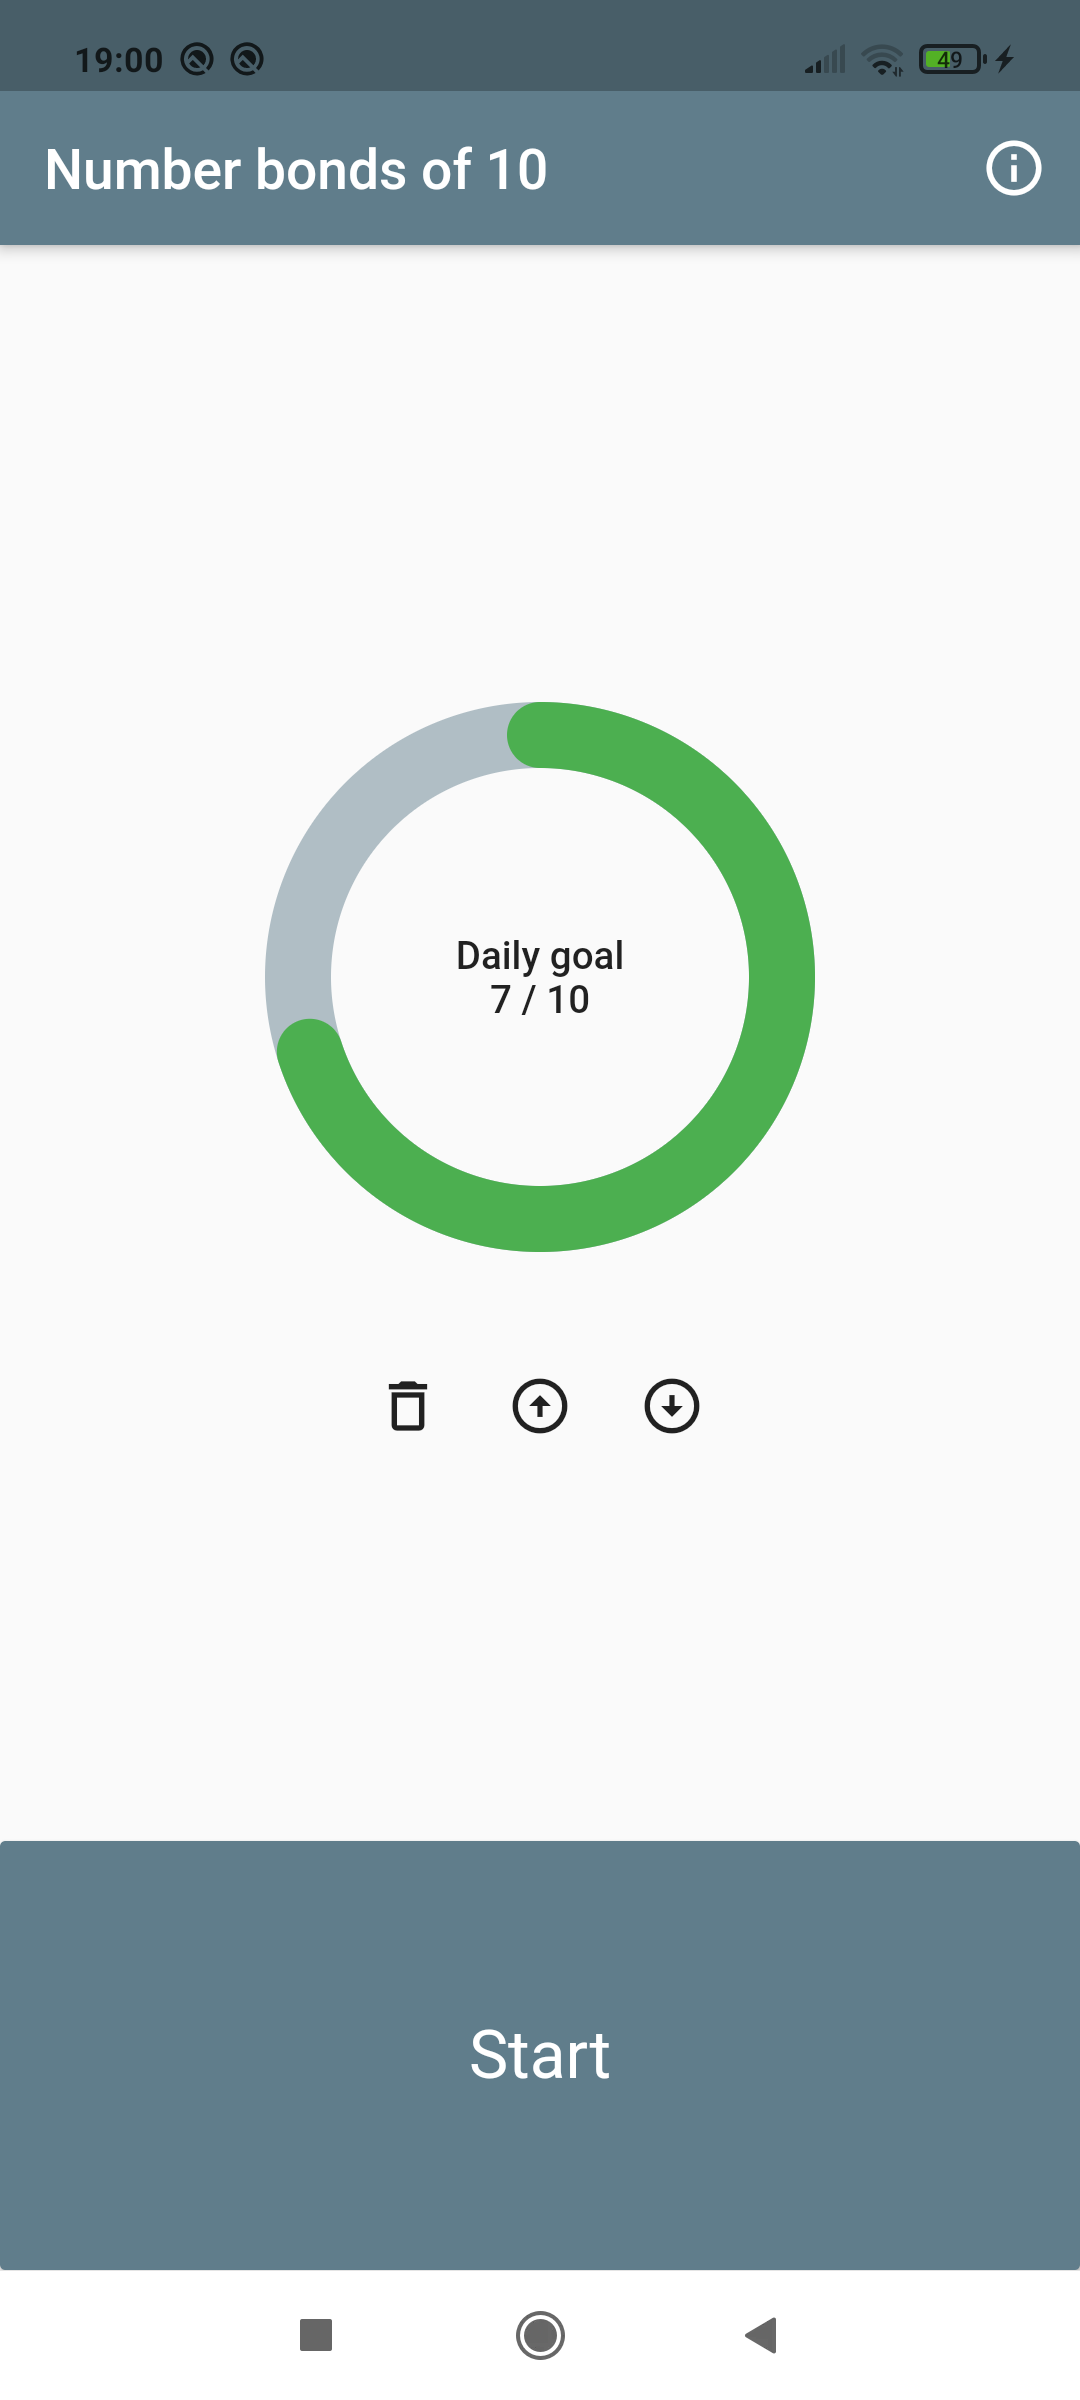
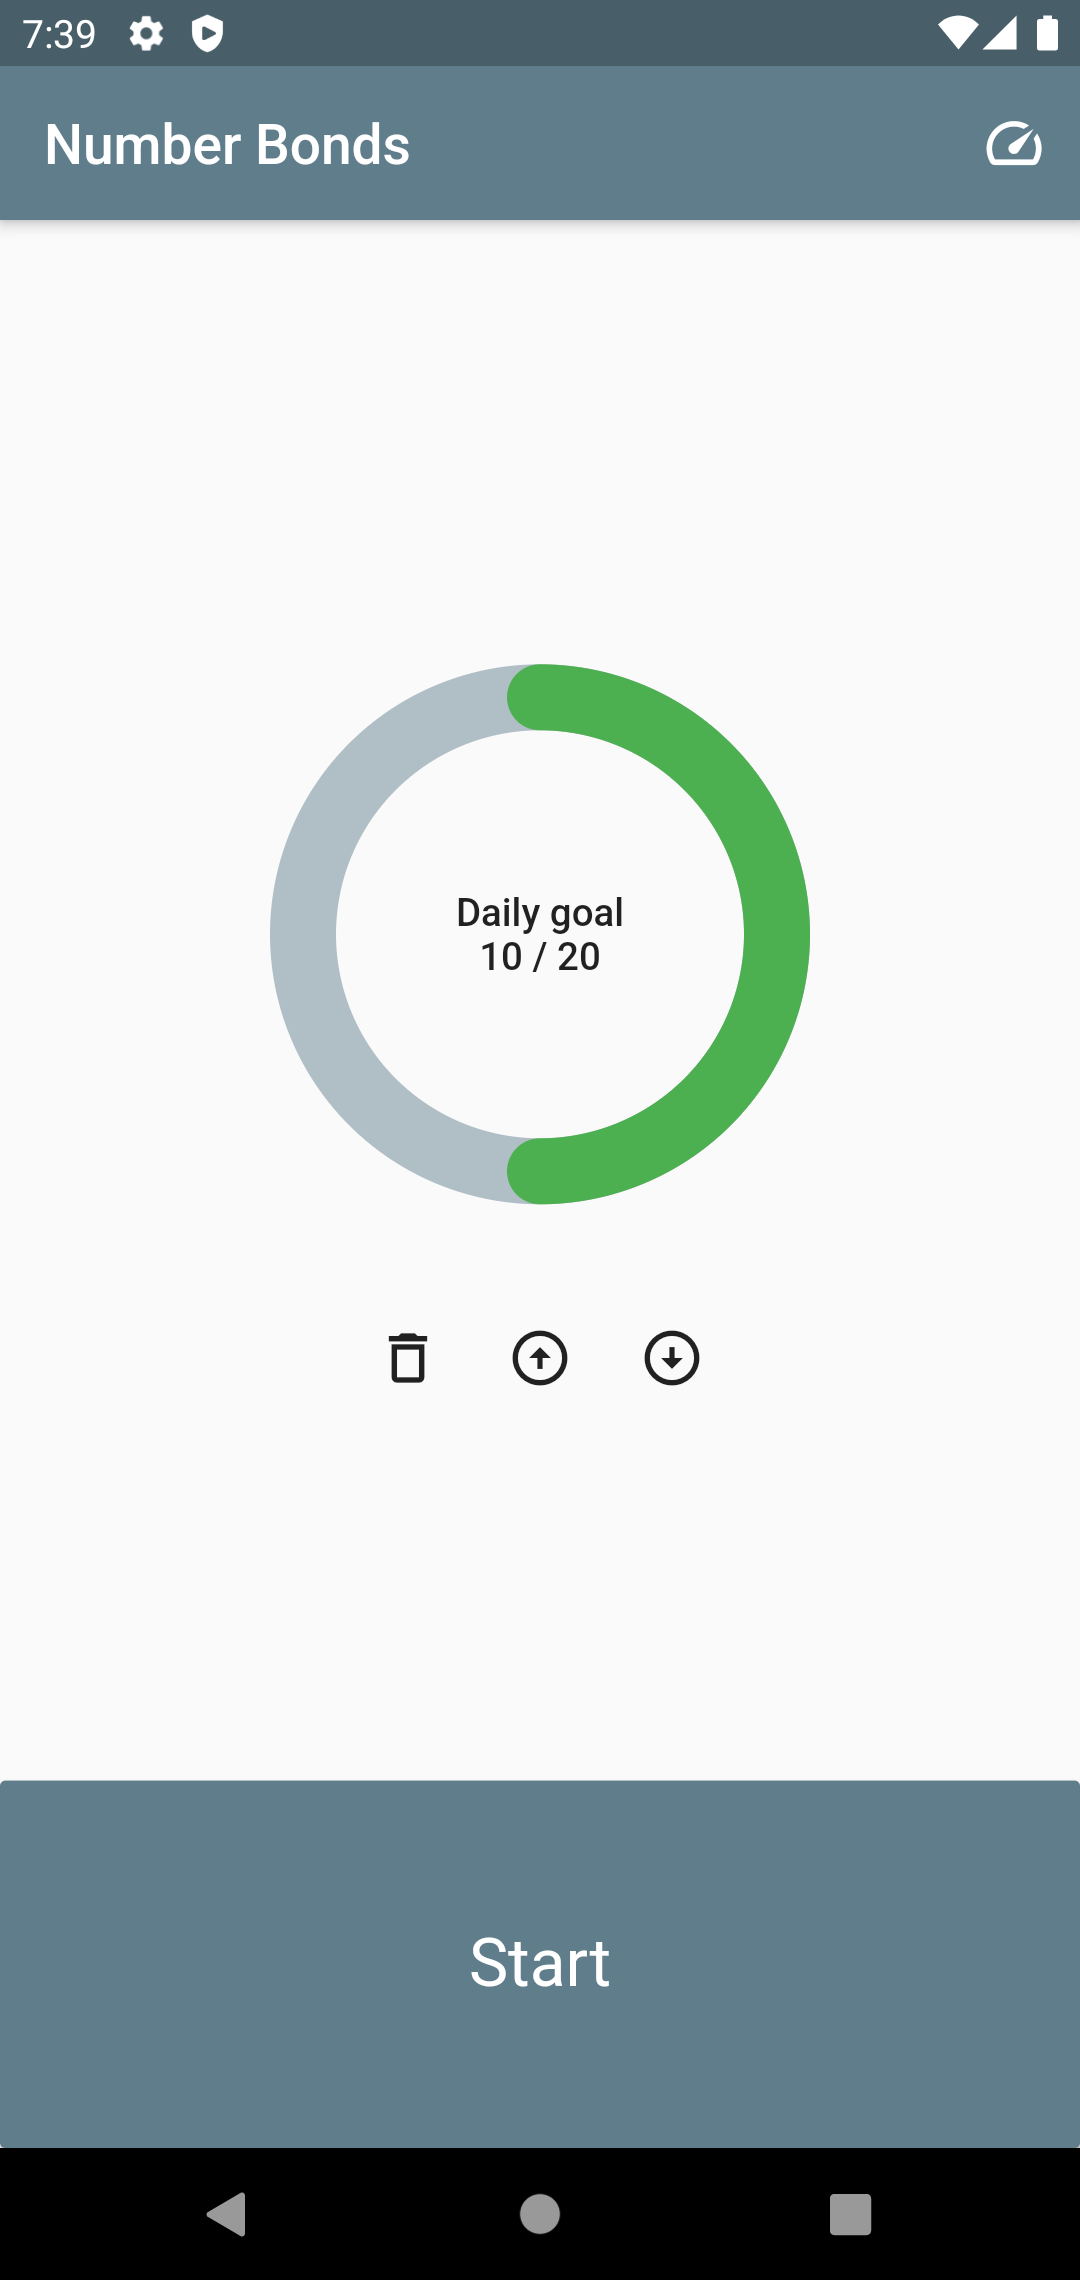
Screenshots for android

diff --git a/lib/pages/App.dart b/lib/pages/App.dart
@@ -25,8 +25,8 @@ class App extends StatelessWidget {
     GoalStore.resetGoalProgressIfNewDay(TaskType.TIMESTABLE_TO_10);
 
     if (SCREENSHOT_MODE) {
-      GoalStore.setGoalProgress(TaskType.NUMBERBONDS_OF_10, 25);
-      GoalStore.setGoalProgress(TaskType.TIMESTABLE_TO_10, 10);
+      GoalStore.setGoalProgress(TaskType.NUMBERBONDS_OF_10, 10);
+      GoalStore.setGoalProgress(TaskType.TIMESTABLE_TO_10, 20);
 
       GoalStore.setGoal(TaskType.NUMBERBONDS_OF_10, 25);
       GoalStore.setGoal(TaskType.TIMESTABLE_TO_10, 25);
